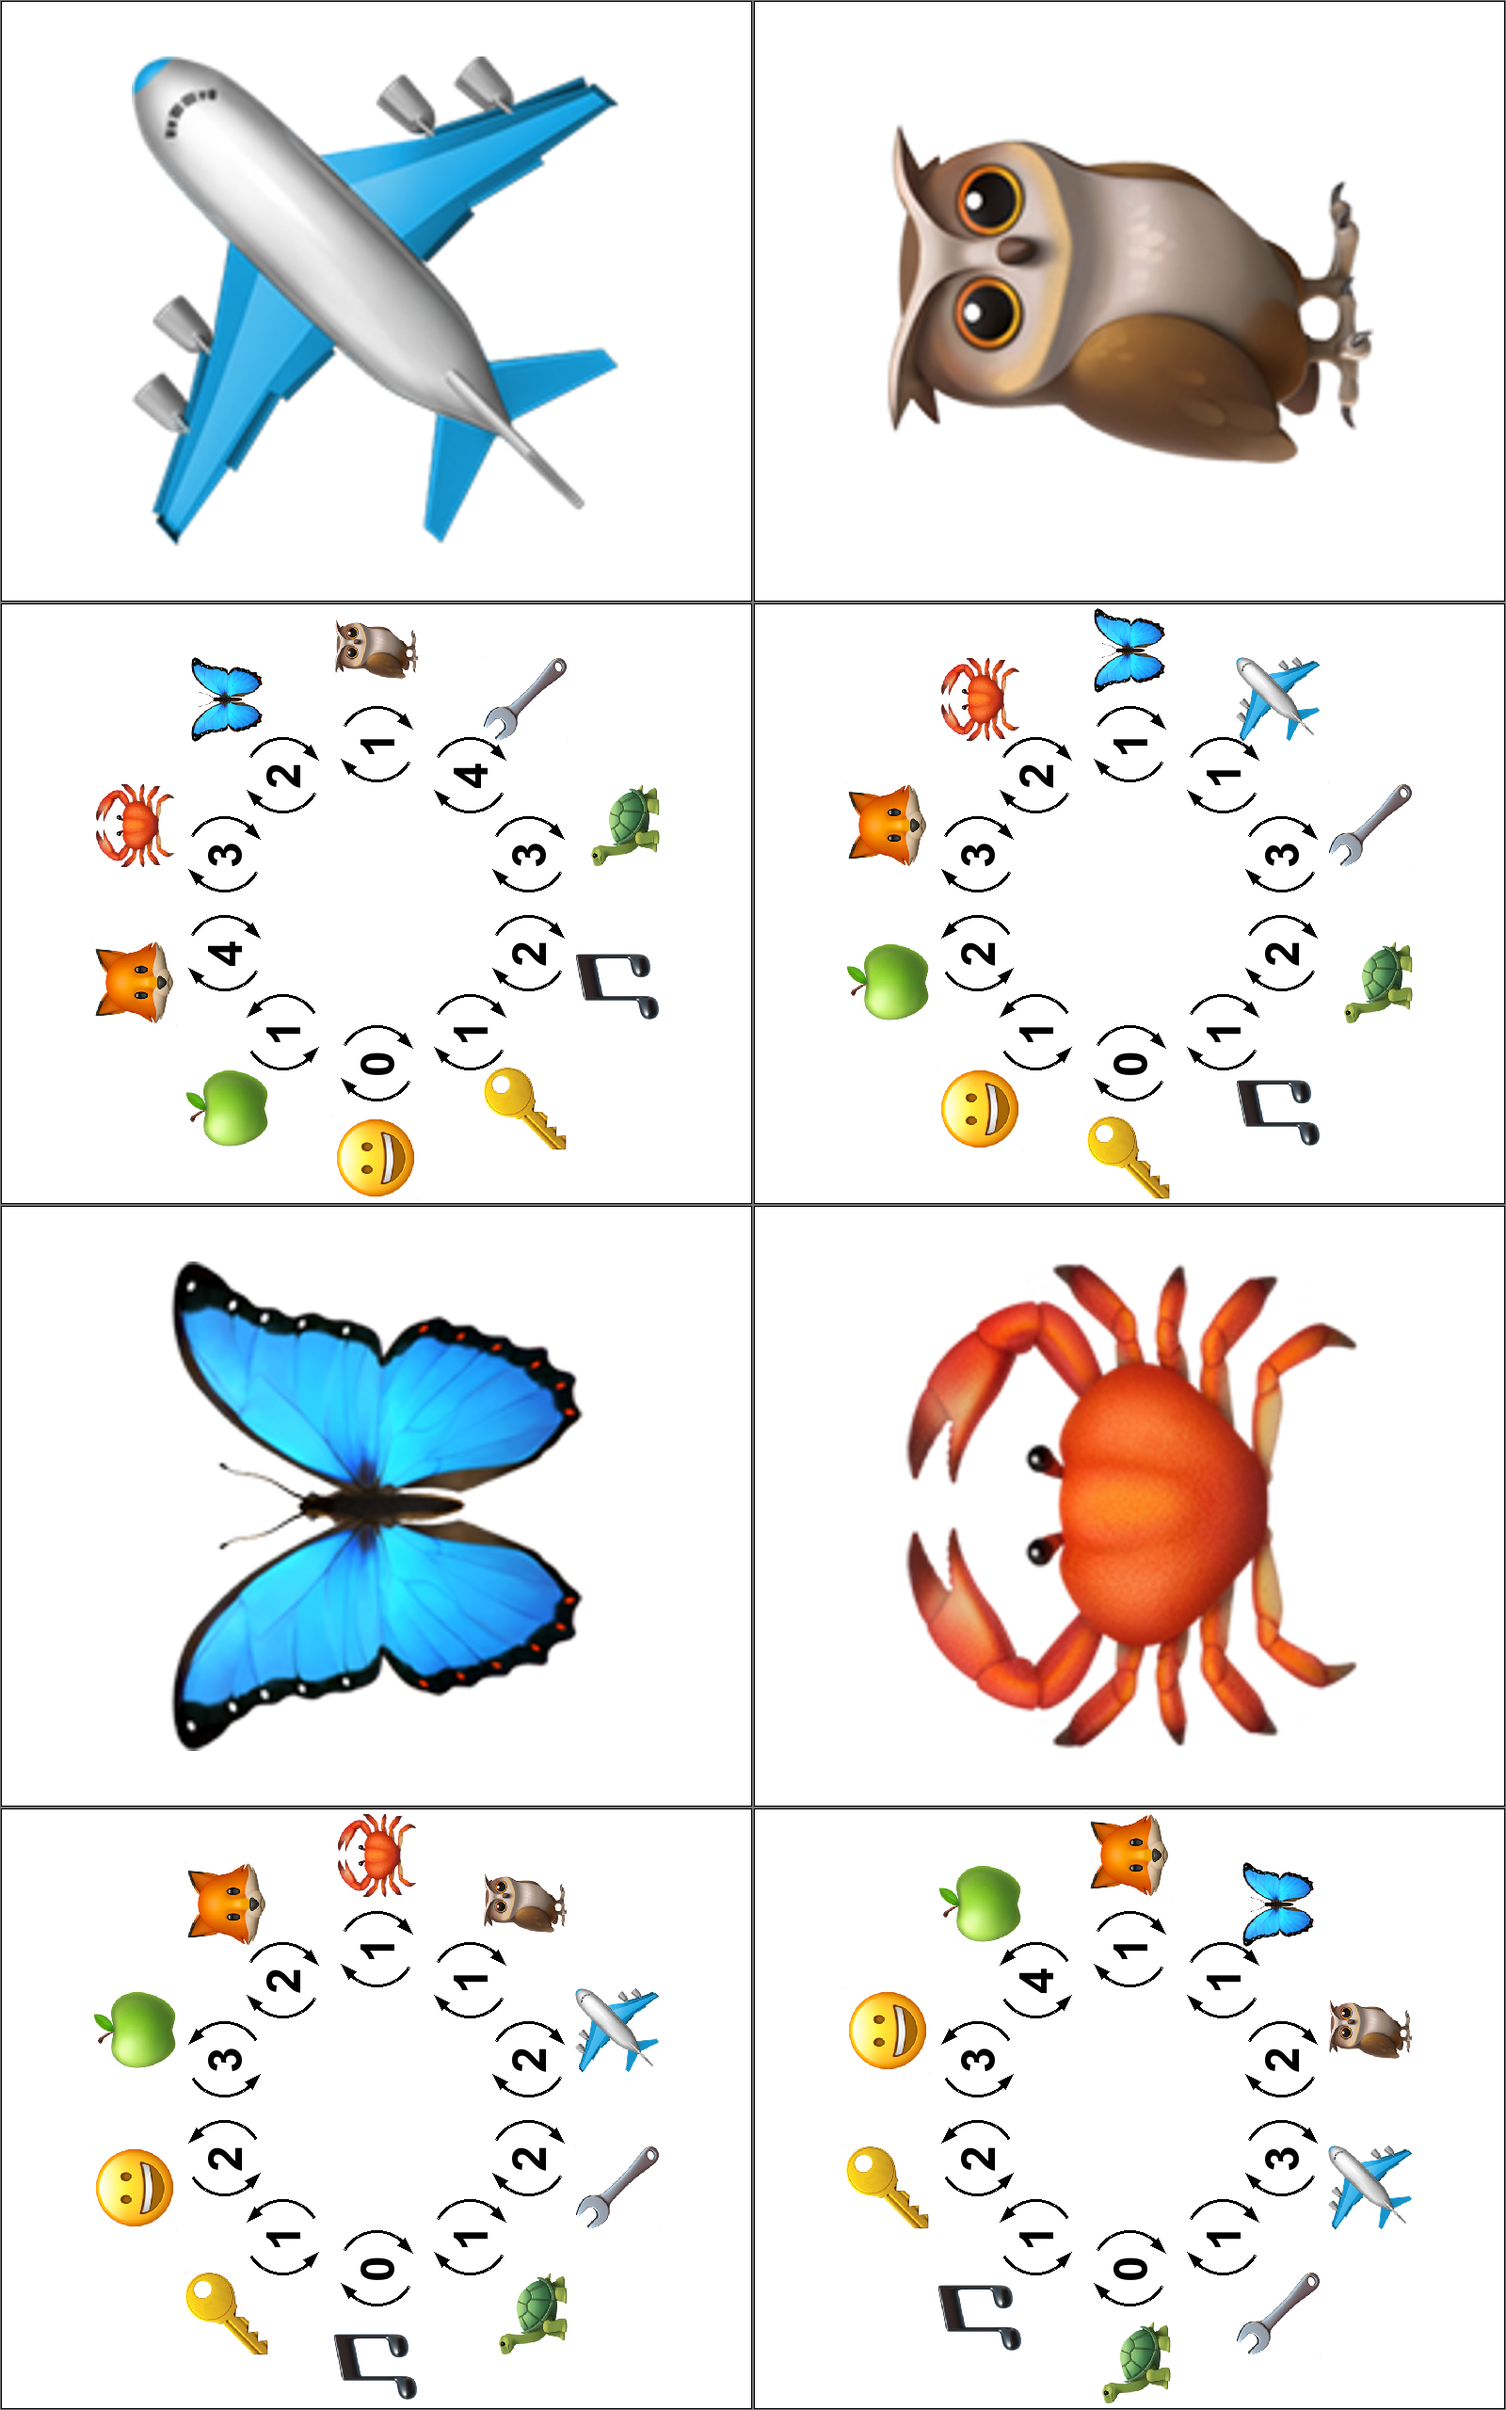
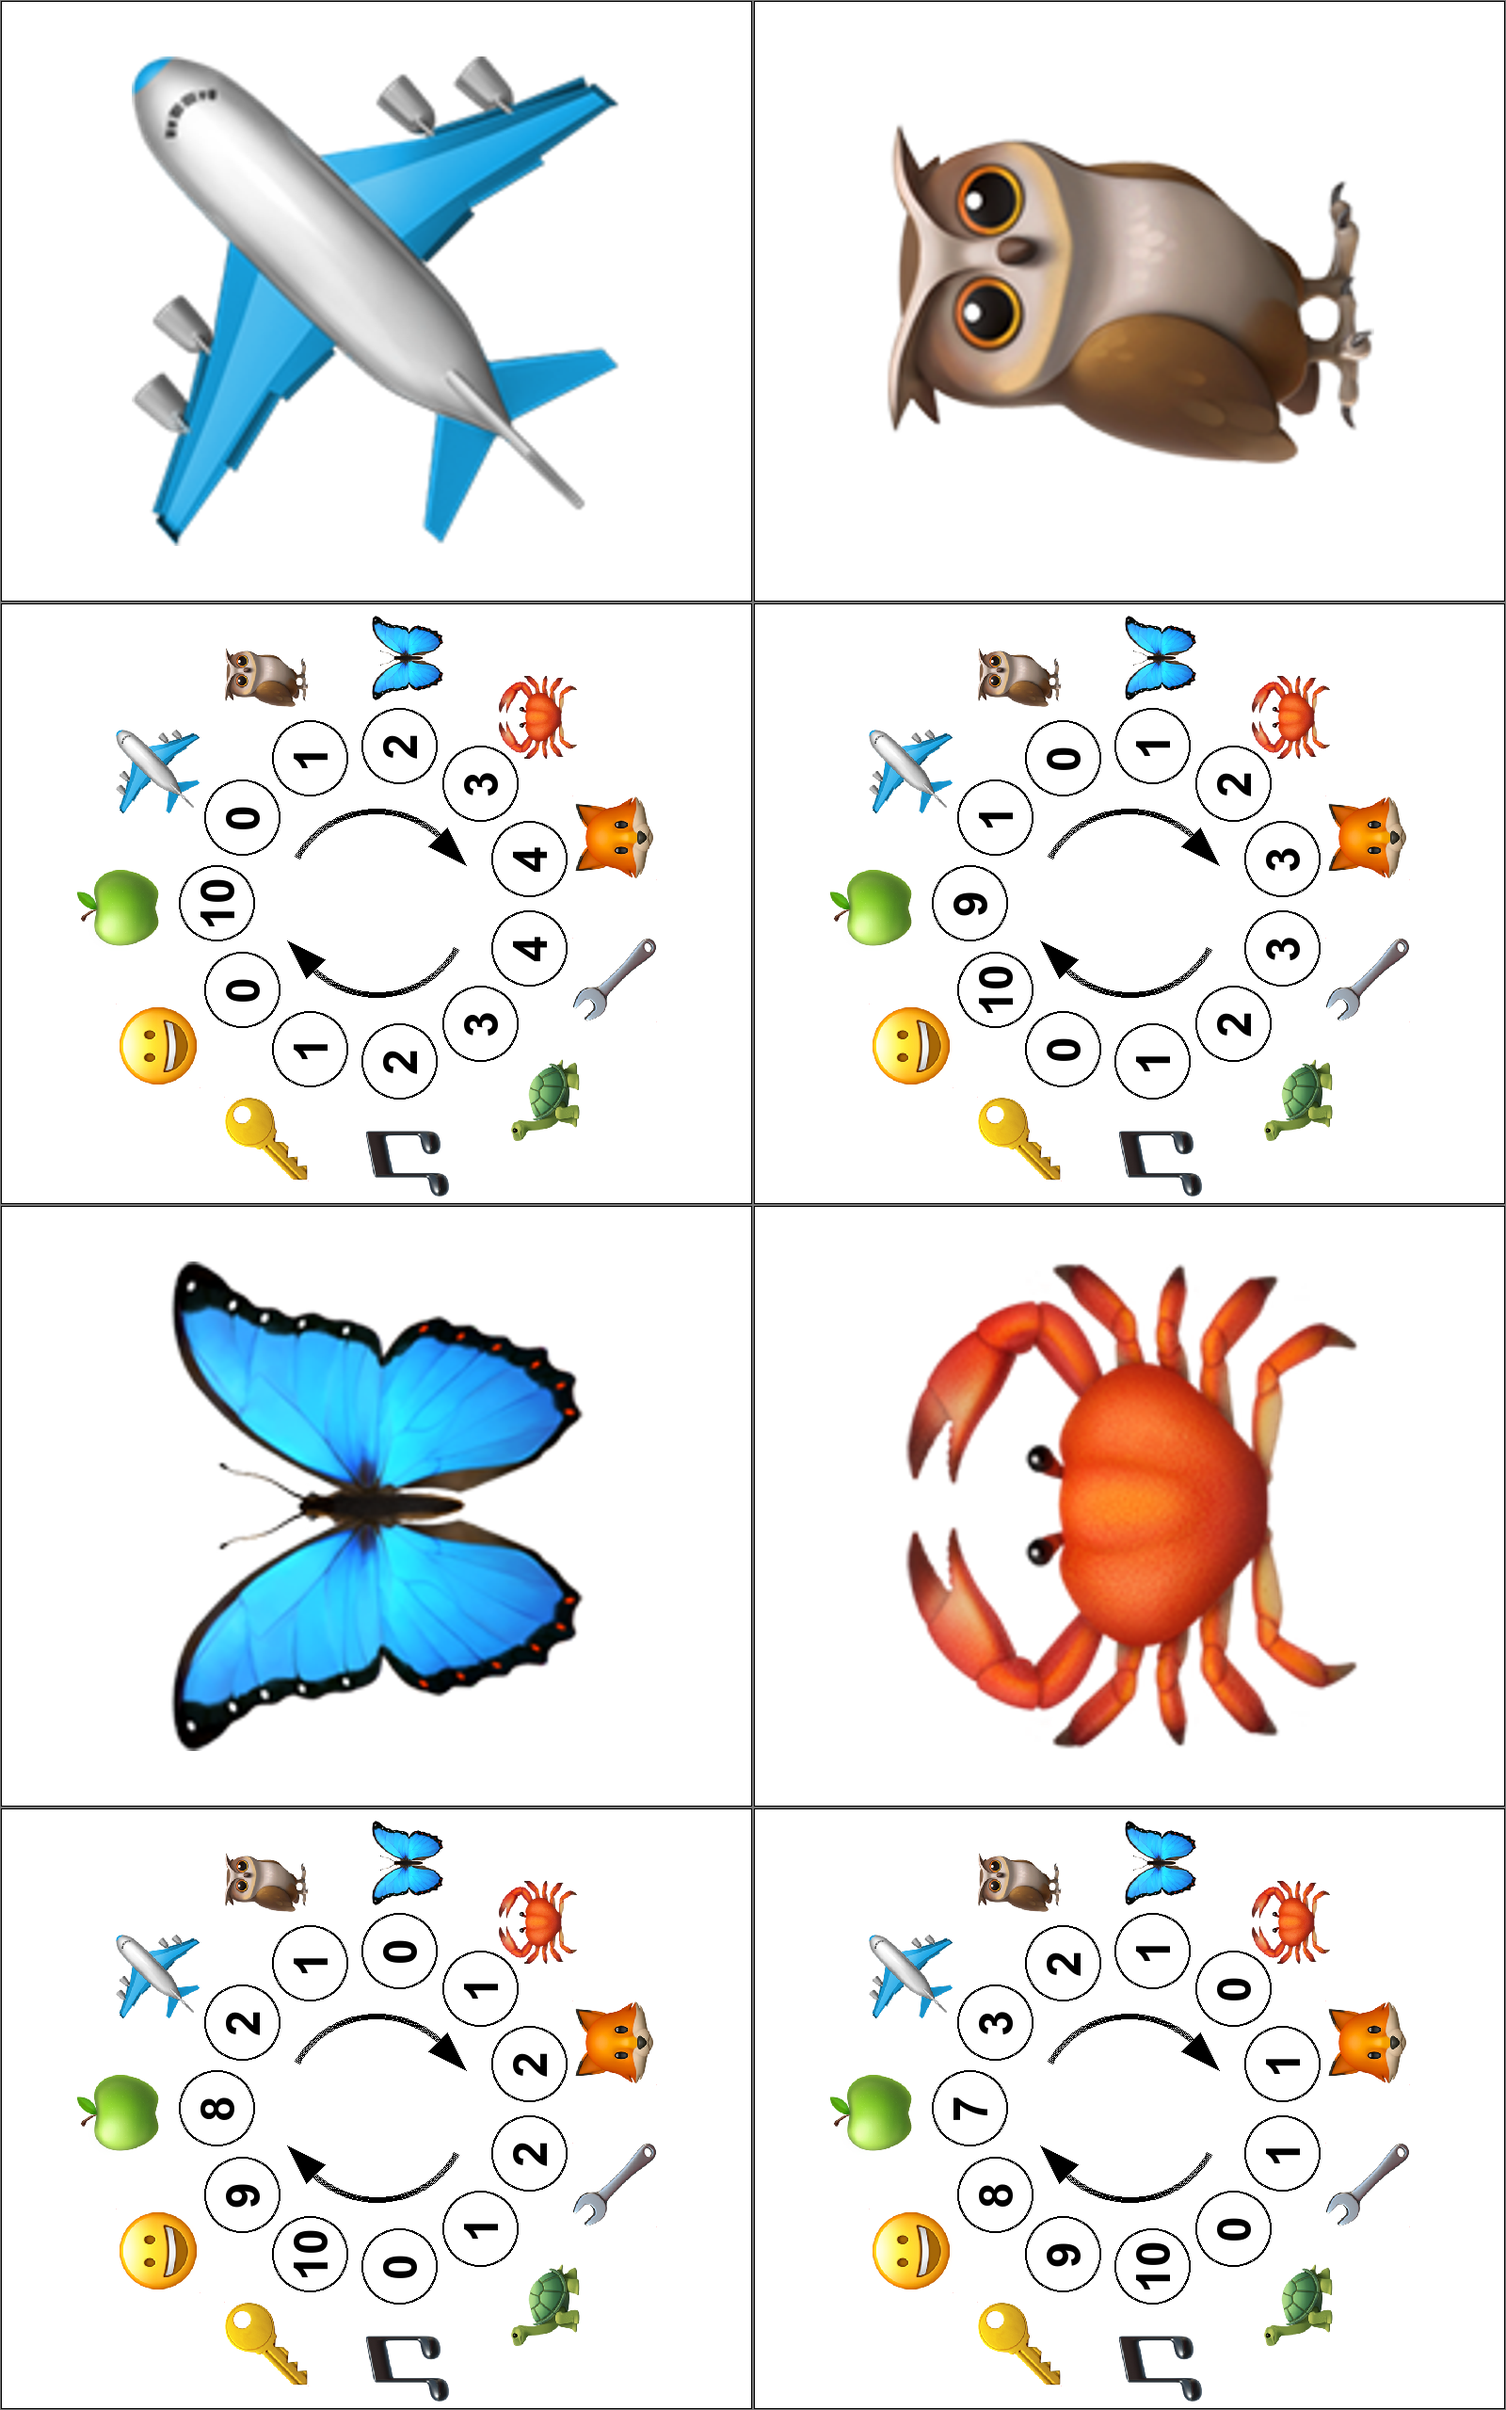
Update backs of cards

diff --git a/cards.py b/cards.py
@@ -61,7 +61,8 @@ for i in range(nCards):
 cycle = [0] * nCards
     
 # test transformed actions
-print("Transformed"        )
+print("Transformed")
+
 for i in range(nCards):
     cardsA = []
     cardsB = []
@@ -106,6 +107,7 @@ y0 = imageSize[1] // 2
 iconWidth = 100
 iconHeight = 100
 
+mode = 1
 
 r0 = r - 60
 r1 = r + 84
@@ -135,10 +137,91 @@ image.save("cycle.png")
 
 # generate movement card backs
 
-iconWidth = 90
-iconHeight = 90
-r1 = r + 36
-r0 = r - 64
+class CardBack:
+    def __init__(self, iconFiles, imageSize, radius):
+        self.icons = iconFiles
+        self.size = imageSize
+        self.iconWidth = 90
+        self.iconHeight = 90
+        self.r0 = radius - 64
+        self.r1 = radius + 36
+        self.nCards = len(iconFiles)
+        self.mode = 1
+
+    def generate(self, tokenMove, index):
+        image = Image.new("RGB", self.size, (255,255,255))
+        draw = ImageDraw.Draw(image)
+
+        #border
+        draw.rectangle([(1,1),(self.size[0]-2, self.size[1]-2)], outline=(0,0,0), width = 1)
+        draw.rectangle([(0,0),(self.size[0]-1, self.size[1]-1)], outline=(120,120,120), width = 1)
+
+        j0 = 0
+        nShow = self.nCards - 1
+        if self.mode == 1: nShow = self.nCards
+        for j in range(nCards):
+            if index == j and self.mode == 0: continue
+
+            angle = 2*pi*(j0 - index) / nShow
+            iconIndex = j
+            if self.mode == 1:
+                angle = pi / 2 - (2*pi*j / nShow)
+                iconIndex = cycle[j]
+
+            iconImage = Image.open(self.icons[iconIndex])
+            iconResized = iconImage.resize((self.iconWidth, self.iconHeight))
+            j0 += 1
+
+            x1 = int(x0 + self.r1*cos(angle))
+            y1 = int(y0 - self.r1*sin(angle))
+            image.paste(iconResized, (x1  - iconWidth // 2, y1 - iconHeight // 2), mask=iconResized)
+
+            # token movement actions
+            
+            x1 = int(x0 + self.r0*cos(angle))
+            y1 = int(y0 - self.r0*sin(angle))
+            move = tokenMove[iconIndex]
+            if move > 5 and self.mode == 0: move -= 11
+            moveMag = abs(move)
+            text = "{}".format(moveMag)
+            textWidth, textHeight = font.getsize(text)
+            draw.text((x1 - textWidth//2, y1 - textHeight//2 - 4), text, fill = (0,0,0), font=font)
+
+            if self.mode == 1:
+                draw.ellipse([(x1-40, y1-40),(x1+40,y1+40)], outline = (0,0,0), width = 2)
+            else:
+                s = 0
+                if move > 0: s = 1
+                elif move < 0: s = -1
+                # +1 for clockwise
+                # -1 for anti-clockwise
+                self.arcArrows(draw, x1, y1, 2, s)
+
+        if self.mode == 1:
+            self.arcArrows(draw, x0, y0, 5, 1)
+        return image
+
+    def arcArrows(self, draw, x, y, f, s):
+        d = 20 * f
+        draw.arc([(x-d, y-d),(x+d,y+d)], -60, 60, fill = (0,0,0), width = f+1)
+        draw.arc([(x-d, y-d),(x+d,y+d)], 120, 240, fill = (0,0,0), width = f+1)
+
+        if s != 0:
+            x2 = x + 8*f
+            y2 = y + 19 * f * s
+            xy = [(x2, y2), (x2+8*f, y2-4*f*s), (x2+4*f, y2-8*f*s)]
+            draw.polygon(xy, fill = (0,0,0), outline = (0,0,0))
+
+            x2 = x - 8*f
+            y2 = y - 19 * f * s
+            xy = [(x2, y2), (x2-8*f, y2+4*f*s), (x2-4*f, y2+8*f*s)]
+            draw.polygon(xy, fill = (0,0,0), outline = (0,0,0))
+
+
+#iconWidth = 90
+#iconHeight = 90
+#r1 = r + 36
+#r0 = r - 64
 
 frontWidth = imageSize[0] - 120
 
@@ -147,53 +230,10 @@ font = ImageFont.truetype("arialbd.ttf", 50)
 
 for i in range(nCards):
     # back of card
-    image = Image.new("RGB", imageSize, (255,255,255))
-    draw = ImageDraw.Draw(image)
+    cardBack = CardBack(icons, imageSize, r)
+    cardBack.mode = mode
+    image = cardBack.generate(moves[i], i)
     
-    #border
-    draw.rectangle([(1,1),(imageSize[0]-2, imageSize[1]-2)], outline=(0,0,0), width = 1)
-    draw.rectangle([(0,0),(imageSize[0]-1, imageSize[1]-1)], outline=(120,120,120), width = 1)
-    
-    j0 = 0
-    for j in range(nCards):
-        if i == j: continue
-        angle = 2*pi*(j0 - i) /(nCards - 1)
-        iconImage = Image.open(icons[j])
-        iconResized = iconImage.resize((iconWidth, iconHeight))
-        j0 += 1
-
-        x1 = int(x0 + r1*cos(angle))
-        y1 = int(y0 - r1*sin(angle))
-        image.paste(iconResized, (x1  - iconWidth // 2, y1 - iconHeight // 2), mask=iconResized)
-
-        x1 = int(x0 + r0*cos(angle))
-        y1 = int(y0 - r0*sin(angle))
-        move = moves[i][j]
-        if move > 5: move -= 11
-        moveMag = abs(move)
-        text = "{}".format(moveMag)
-        textWidth, textHeight = font.getsize(text)
-        draw.text((x1 - textWidth//2, y1 - textHeight//2 - 4), text, fill = (0,0,0), font=font)
-
-        draw.arc([(x1-40, y1-40),(x1+40,y1+40)], -60, 60, fill = (0,0,0), width = 3)
-        draw.arc([(x1-40, y1-40),(x1+40,y1+40)], 120, 240, fill = (0,0,0), width = 3)
-
-        # draw arrow heads
-        s = 1
-        if move < 0: s = -1
-        # +1 for clockwise
-        # -1 for anti-clockwise
-        
-        x2 = x1 + 16
-        y2 = y1 + 38 * s
-        xy = [(x2, y2), (x2+16, y2-8*s), (x2+8, y2-16*s)]
-        draw.polygon(xy, fill = (0,0,0), outline = (0,0,0))
-
-        x2 = x1 - 16
-        y2 = y1 - 38 * s
-        xy = [(x2, y2), (x2-16, y2+8*s), (x2-8, y2+16*s)]
-        draw.polygon(xy, fill = (0,0,0), outline = (0,0,0))
-
     image.save("back{:02d}.png".format(i))
 
     #front of card
@@ -214,15 +254,17 @@ for i in range(nCards):
 for panelIndex in [0, 1, 2]:
     panelWidth = imageSize[1] * 2
     panelHeight = imageSize[0] * 4
-    panelImage = Image.new("RGB", (panelWidth, panelHeight))
+    panelImage = Image.new("RGB", (panelWidth, panelHeight), (255,255,255))
     for i in range(4):
         j = panelIndex * 4 + i
         if j < 11:
             frontImage = Image.open("front{:02d}.png".format(j))
             backImage = Image.open("back{:02d}.png".format(j))
-        else:
+        elif mode == 0:
             frontImage = Image.open("cycle.png")
             backImage = Image.new("RGB",imageSize, (255,255,255))
+        else:
+            break
 
         panelImage.paste(frontImage.rotate(90, expand=1), ((i % 2) * imageSize[1], (i // 2) * imageSize[0] * 2))
         panelImage.paste(backImage.rotate(90, expand=1), ((i % 2) * imageSize[1], ((i // 2) * 2 + 1) * imageSize[0]))
